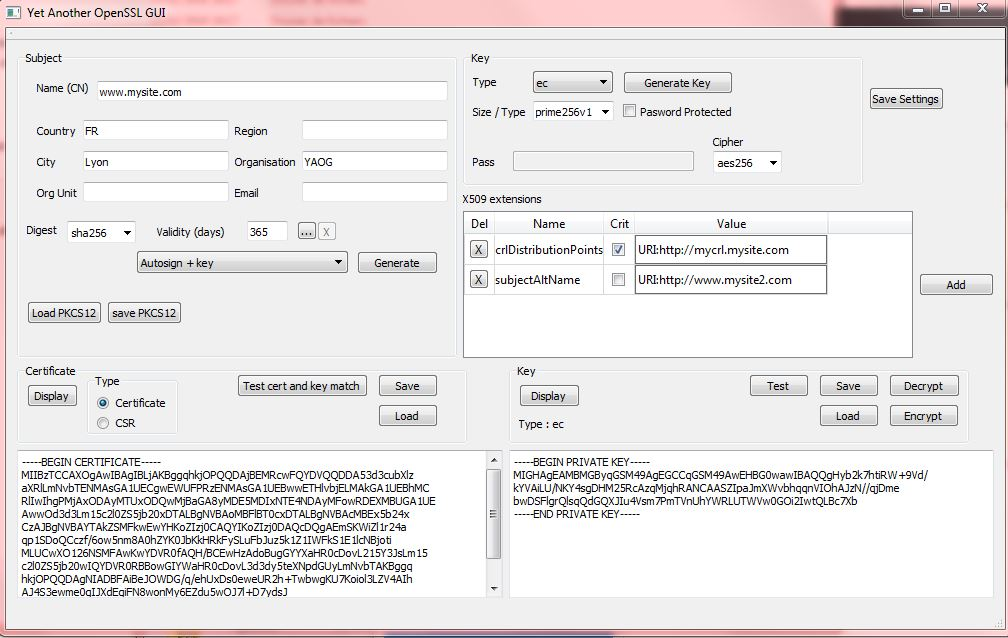
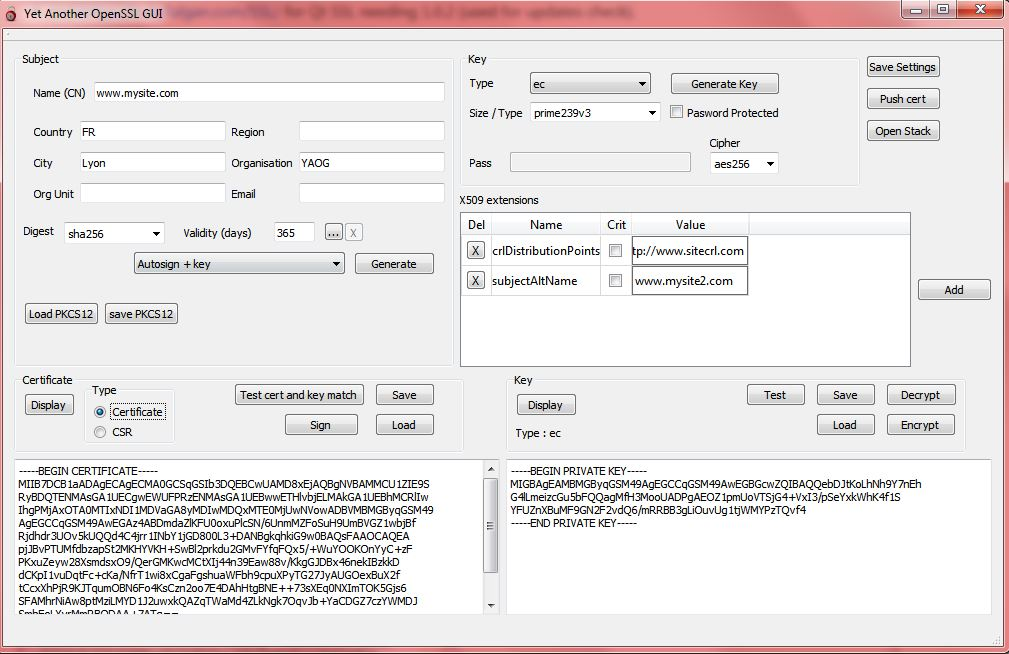
Doc update for next release

diff --git a/docs/10-full-example-1.md b/docs/10-full-example-1.md
@@ -1,0 +1,83 @@
+Full example
+===============
+
+About
+-----
+
+In this example is describe how to generate a self signed CA, generate and sign a web server certificate, save all to a pkcs12 structure and renew the certificate.
+
+
+Generate the CA
+---------------
+
+We need a certificate authority, self signed, with x509 extensions of a CA.
+
+First, choose a rsa key of 2048 bits with a password protection : 
+
+![KEY](img/1-fullex.jpg)
+
+Next, set 
+
+1) the name of the CA. Only the CN is mandatory
+2) the digest used to sign the key
+3) validity in days : here set to 10 years. 
+
+![subject](img/7-fullex.jpg)
+
+Date selection : You can either set validity in days starting from now, or select a starting and ending date by clicking ![date](img/3-fullex.jpg) and choosing start/end date
+To revert to number of days, click :  ![date](img/5-fullex.jpg)
+
+Next, add some X509 v3 extensions to make it look like a real CA, for example add "CA=true" as critical extension as this is needed to be seen as a CA.
+
+Note : a critical extension means that if the browser - or other soft -, doesn't understand the extension, it should not accept the certificate.
+
+Add an extension : 
+
+![ext](img/9-fullex.jpg)
+
+Then : 
+
+1) Select "basicConstraint" as extension type
+2) Click "Select"
+3) Select "CA:TRUE"
+4) Select Critical extension
+5) Click "Add"
+6) Click "OK" to add extension
+
+![ext](img/11-fullex.jpg)
+
+Note : 
+
+* "Add and continue" will allow you to add the extension then reset the form for the next one
+* "Reset form" will allow you to select a new extension
+* You can edit the value if needed
+
+You should now see the extension you added :
+
+
+Finaly select "Autosign+key" and click "generate".
+
+Enter a serial number (or leave the random one) and click OK : ![serial](img/20-fullex.jpg)
+
+The certificate and key (if no error is reported) are displayed - in pem format - in the lower edit box for you to cut & paste if needed. :
+
+![serial](img/22-fullex.jpg)
+
+Now the CA is generated, save the certificate for later use : click "save" in the Certificate box.
+
+Next, push the certificate in the stack to select it as signing certificate : 
+
+1) Click "Push cert" (the system will ask you for the key password to decrypt it)
+2) Select it in the stack
+3) Click "Sel for signing"
+4) The "MY CA" certificate is now the signing certificate
+
+![serial](img/24-fullex.jpg)
+
+Generate a certificate to sign
+------------------------------
+
+Now, generate a certificate signing request (CSR) and sign it with the created CA.
+
+(ONGOING DOC! COME BACK LATER)
+

diff --git a/docs/02-maindoc.md b/docs/02-maindoc.md
@@ -1,14 +1,25 @@
 Documentation
 ===============
 
+About
+-----
+
 This software is all about creating certs/csr and keys quickly. 
 
-Be careful to save you certificates and keys, as the software won't warn you about unsaved changes !
+It will let you generate certificates of any kind, even if they are not secure (RSA 512 + md5 for example), or with incompatible X509 extensions.
+
+Remember to save you certificates and keys if you need them, as the software won't warn you about unsaved changes !
+
+Below is a quick documentation of main features, and a full step by step example is available ![here](10-full-example-1.md)
+
+Main Window
+-----------
 
 The main window has all you need : 
 
 * Subject : all elements that will be set in your certificate / CSR. Only the CN will be set in a new CSR
 * Key : type / length of key to generate. Check "password protected" to encrypt your key
+* X509 extensions
 * "Generate button" : see below
 
 ![MAIN](../img/main.jpg)
@@ -37,6 +48,8 @@ Certificate buttons
 
 * Test cert & key match : check the certificate/csr public key is related to the private key in the "Key" box.
 
+* Sign : sign a csr with the cert/key defined in the stack window
+
 Key buttons
 -----------
 
@@ -54,4 +67,18 @@ PKCS12
 Save or load pkcs12 format.
 You can add certificate (previously saved on disk) with the current cert/key in a single P12
 On the load dialog box, you can load the main certificate/key ("Import cert & key") or the other certificates in the P12 container.
- 
+
+Misc buttons
+------------
+
+Save Settings : save all the subject entries and all the X509 extensions in the default.ini file located in the installation directory
+
+Updates Check
+-------------
+
+First time you launch the software, it will ask you if you want to check for updates.
+To change this, edit the default.ini file and change the "checkupdate" variable to: 
+
+* 0 : no update checks
+* 1 : check updates
+* 3 : ask again next launch

diff --git a/README.md b/README.md
@@ -6,6 +6,8 @@ This project aims to allow creating certificates / keys in a quick and easy way.
 Features :
 - Single executable with no dependencies (openssl & Qt lib are included)
 - Create auto sign certificates or CSR with immediate PEM display to copy/paste
+- Certificate signing
+- Stack to handle multiple certificates
 - Conversion from certificate (private key) to csr
 - Allow RSA, DSA and elliptic curve keys
 - Encrypt/decrypt keys, check certificate / key match
@@ -25,7 +27,7 @@ Binary includes
 
 Licence : GPL V3
 
-Installation / doc ![here](docs/01-installation.md)
+Installation / doc : ![here](docs/01-installation.md)
 
 Main (and only !) window : 
 
